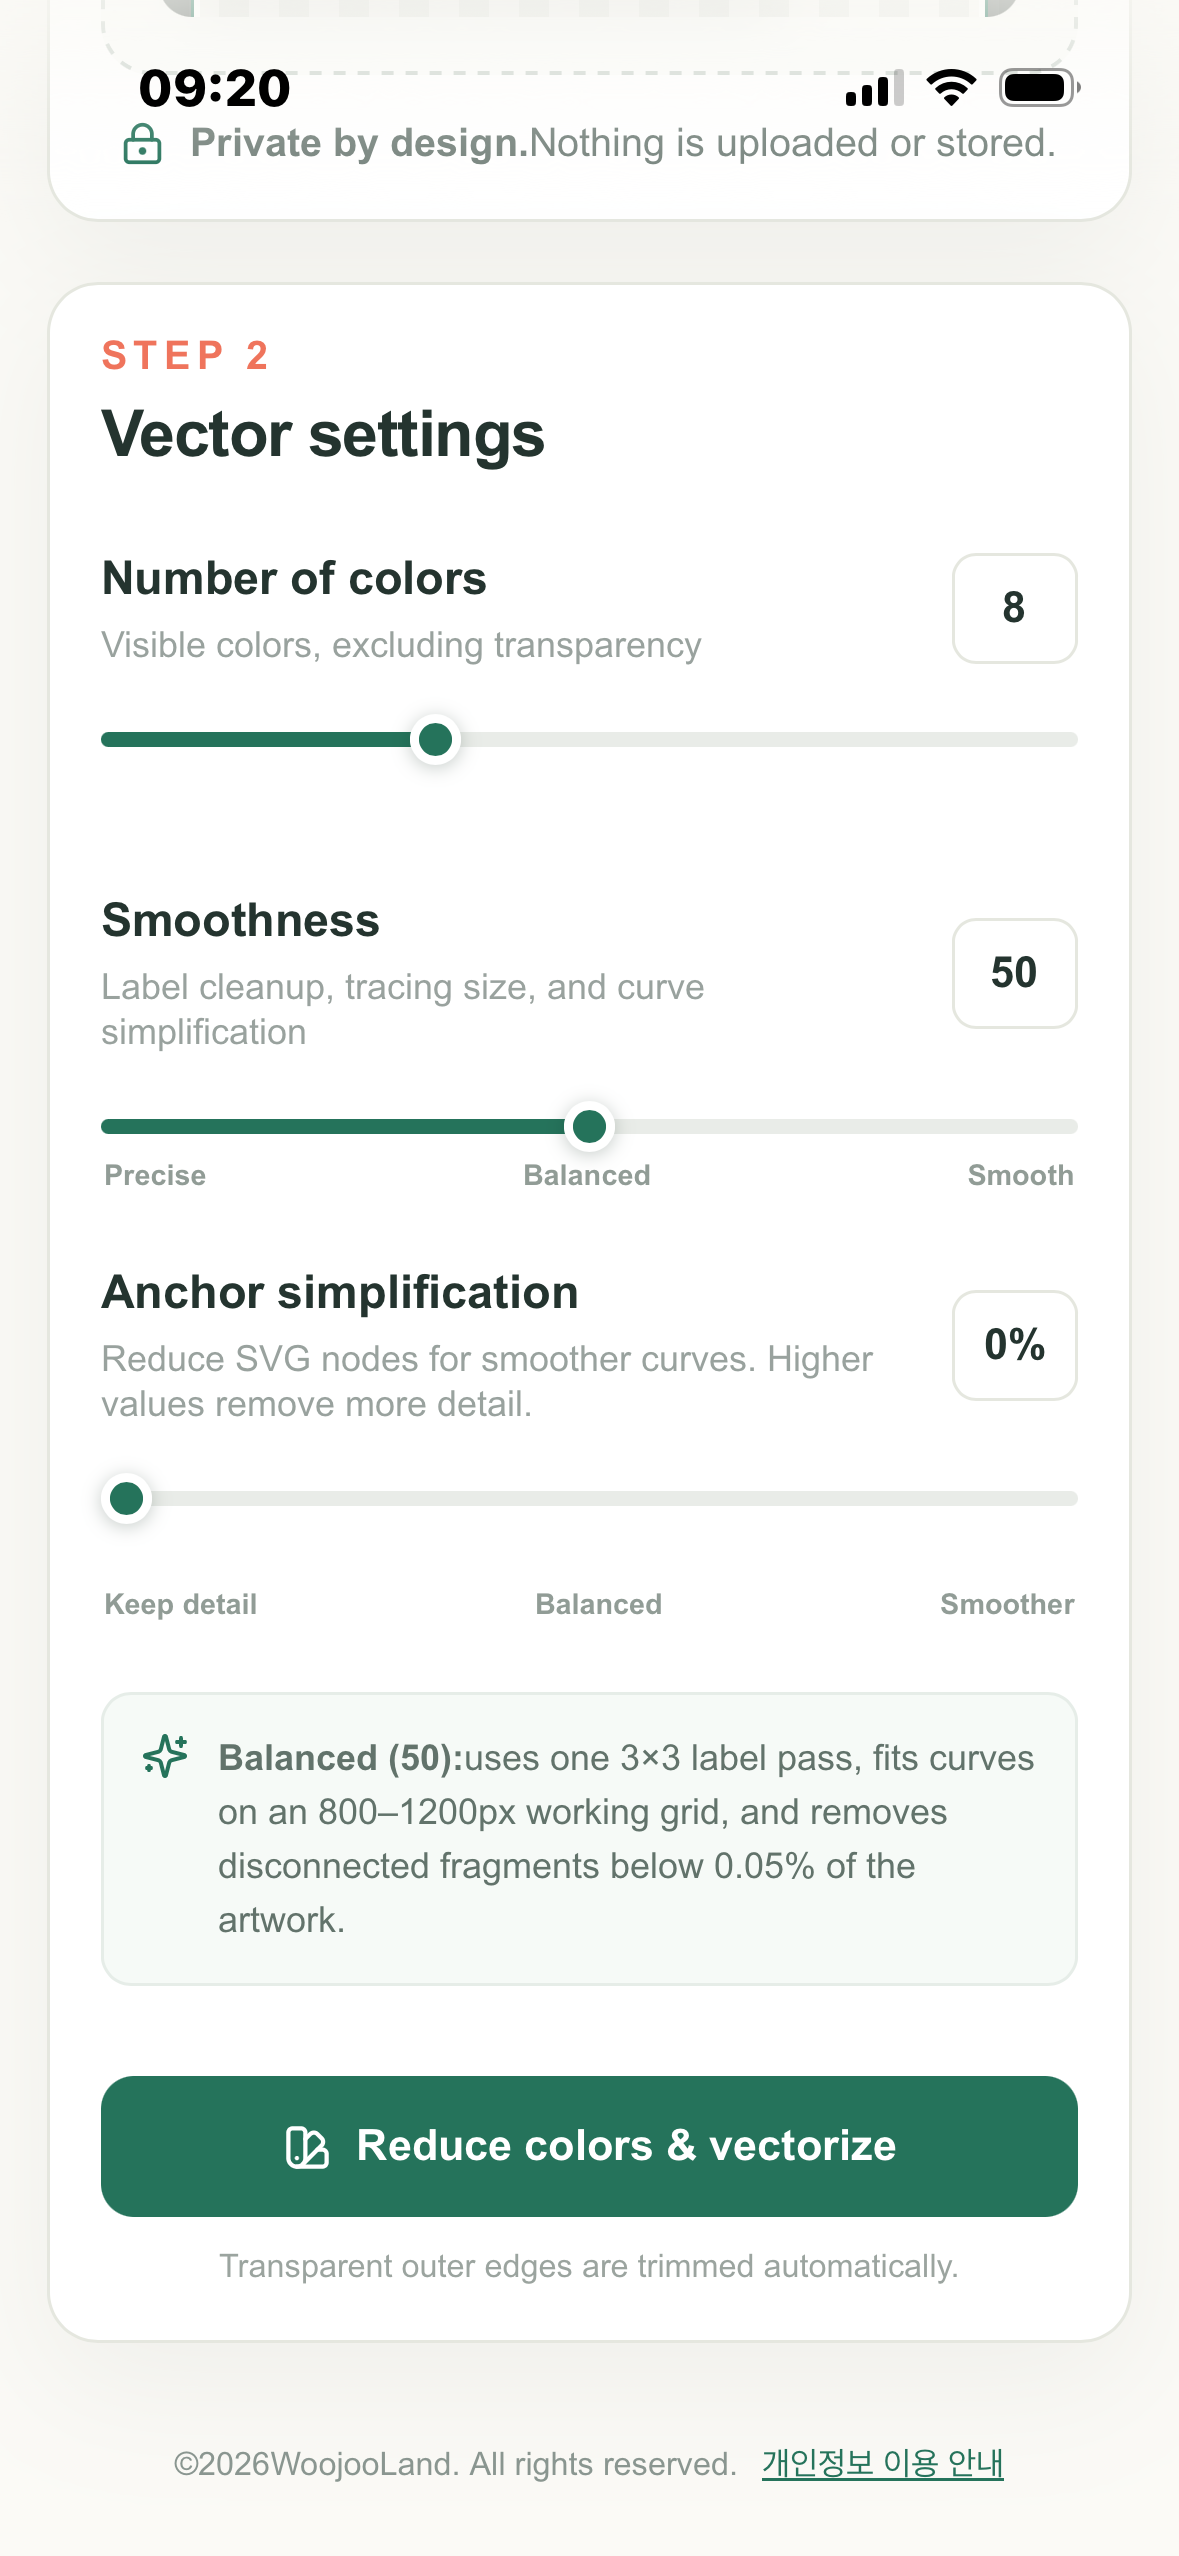
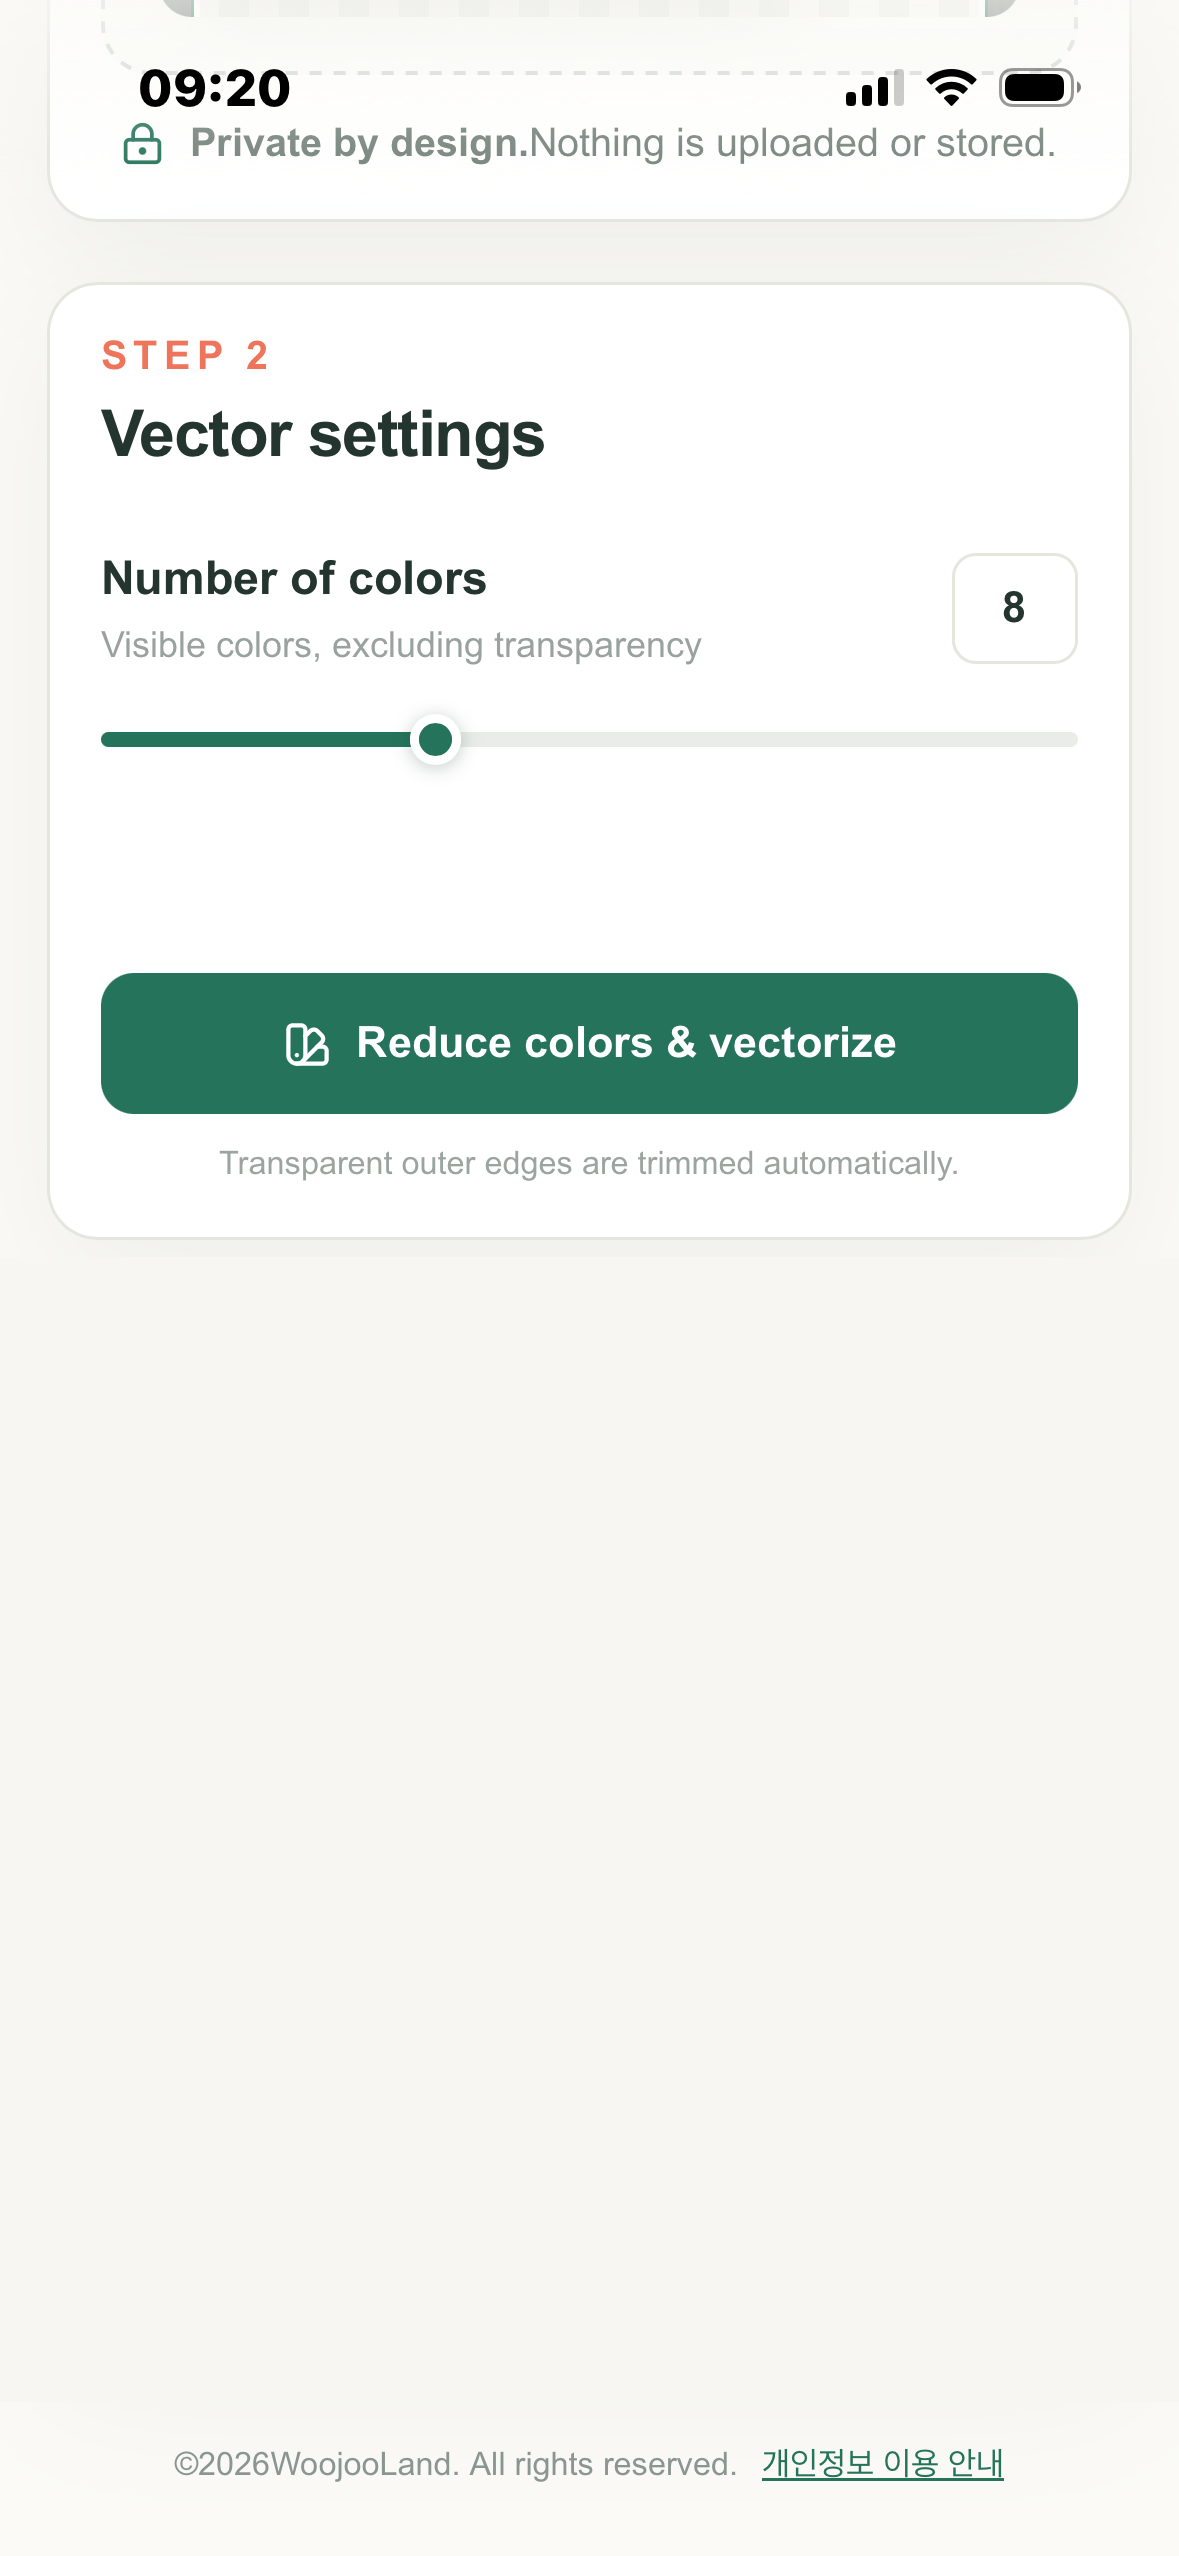
Update step 2 landing screenshot and drop stale copy
The settings screenshot still showed the old Smoothness/Anchor
simplification controls that were removed from the app earlier.
Replaced it with a current screenshot, and dropped the workflow copy
(EN + KO) that referenced automatic cleanup/curve-detail balancing
since that's no longer something the UI surfaces.

diff --git a/app/landing-page.tsx b/app/landing-page.tsx
@@ -33,7 +33,7 @@ const copy = {
     benefitIntro: "Made for icons, stickers, clipart, simple illustrations, lettering, and other flat artwork.",
     workflow: [
       { step: "01", title: "Crop before you trace", text: "Upload PNG, JPG, or WEBP and select only the area you need. Start without unnecessary whitespace." },
-      { step: "02", title: "Choose your colors", text: "Set the number of colors and WOOJOO Image automatically balances cleanup and curve detail." },
+      { step: "02", title: "Choose your colors", text: "Set the number of colors, then vectorize with one click." },
       { step: "03", title: "Edit the palette precisely", text: "Merge similar colors, remove a background, recolor shapes, or protect fine details with the brush." },
       { step: "04", title: "Auto-crop and export", text: "Fit the canvas to the finished artwork and save grouped, fill-only SVG paths or transparent PNG files." },
     ],
@@ -75,7 +75,7 @@ const copy = {
     benefitIntro: "아이콘, 스티커, 클립아트, 단순 일러스트, 레터링처럼 색상 면이 분명한 이미지에 잘 맞습니다.",
     workflow: [
       { step: "01", title: "올리면서 바로 크롭", text: "PNG, JPG, WEBP 이미지를 올리고 필요한 영역만 먼저 선택하세요. 불필요한 여백 없이 시작할 수 있어요." },
-      { step: "02", title: "색상 수 선택", text: "색상 수만 정하면 영역 정리와 곡선 디테일은 WOOJOO Image가 균형 있게 자동 처리합니다." },
+      { step: "02", title: "색상 수 선택", text: "색상 수만 정하고 한 번에 벡터로 변환하세요." },
       { step: "03", title: "팔레트를 정확하게 수정", text: "비슷한 색을 합치고, 배경을 지우고, 색을 바꾸거나 브러시로 섬세한 영역을 보호할 수 있어요." },
       { step: "04", title: "자동 크롭 후 내보내기", text: "완성된 오브젝트에 캔버스를 자동으로 맞추고, 그룹화된 면 중심 SVG 또는 투명 PNG로 저장하세요." },
     ],
